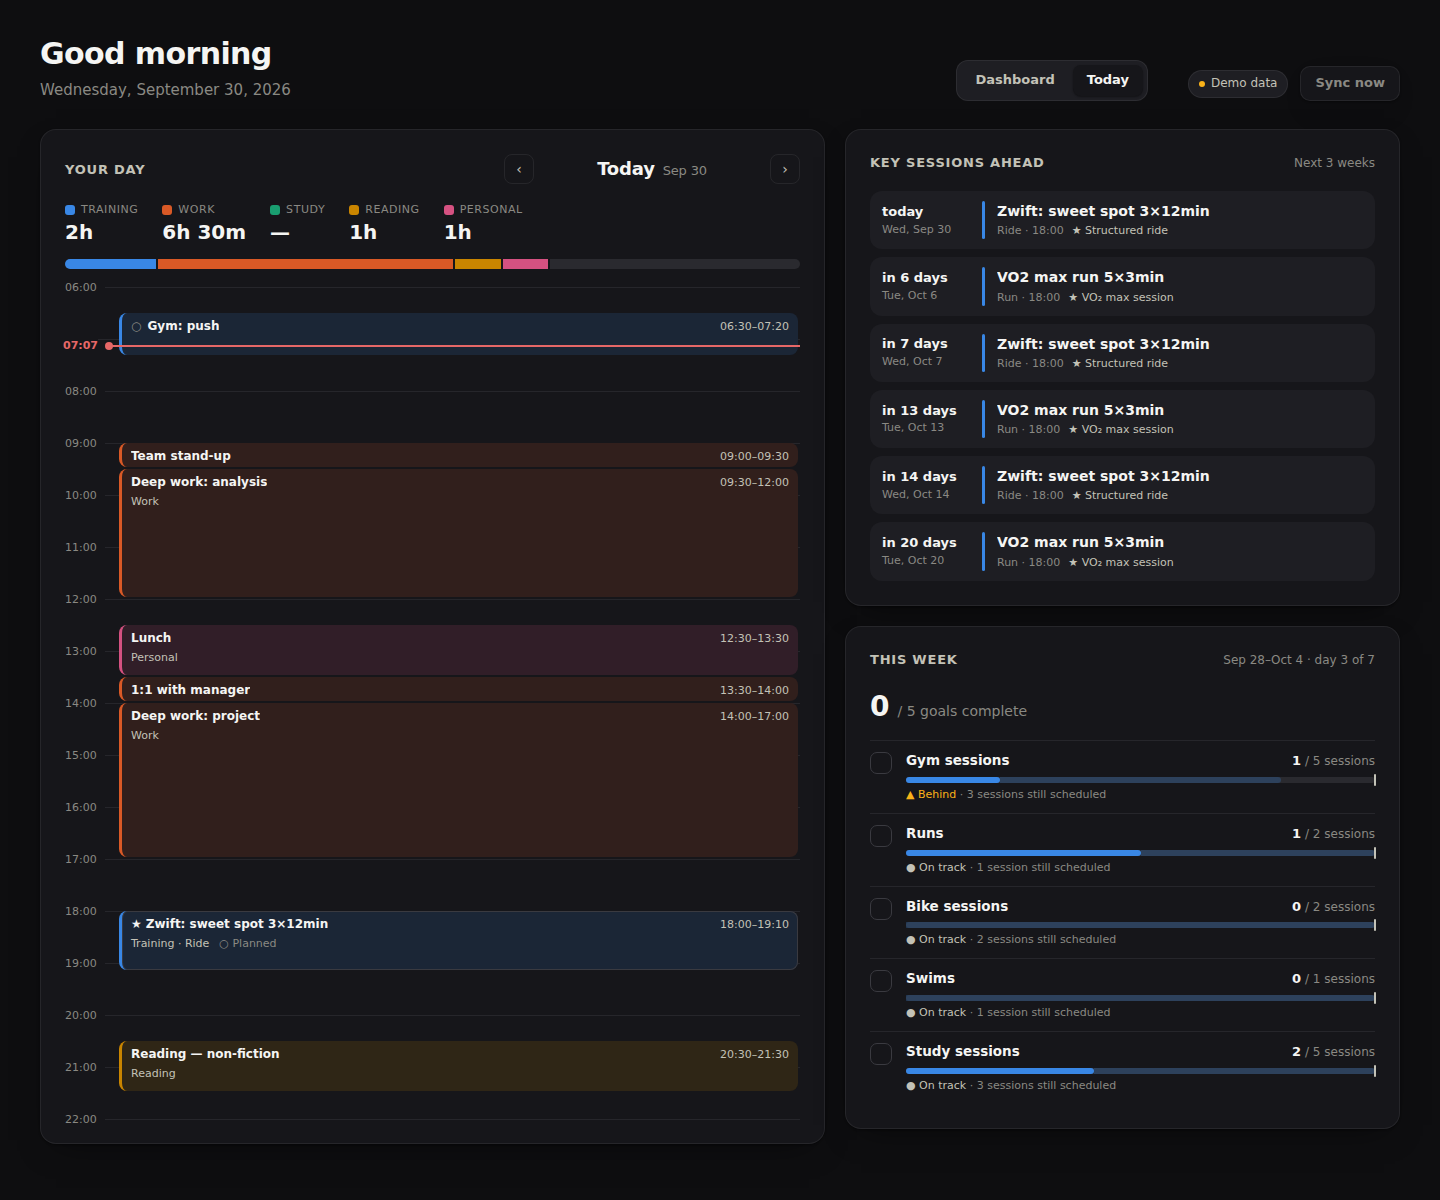
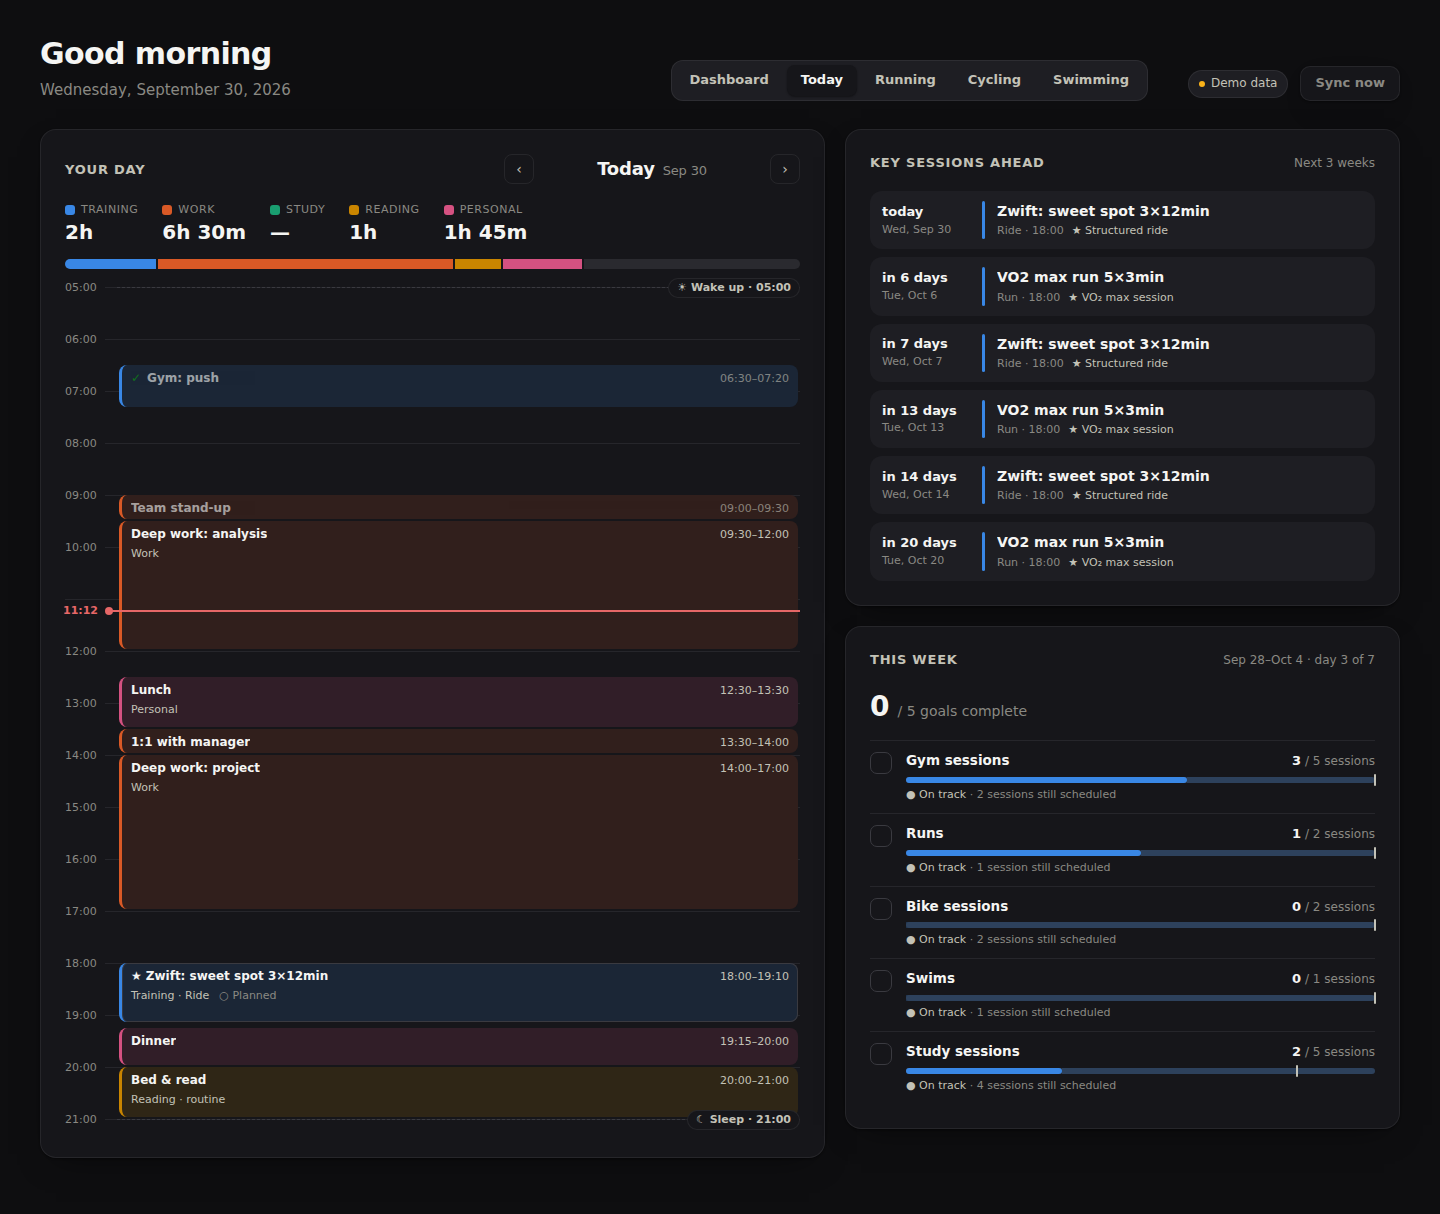
Fixed daily routine on Today; Upcoming shows key sessions and calls
- routine.json: wake 05:00, dinner 19:15, bed & read 20:00, sleep 21:00.
  Day plan shows calendar events only within 05:00-21:00, adds the routine
  blocks (counted in the hours per area) and wake/sleep markers.
- /api/upcoming adds highlights: key training sessions + events with
  "call" in the title (CALL_KEYWORDS); the Upcoming card shows those.
  The training calendar still shows all planned training.
- Demo: today's already-finished sessions are recorded; calendar fits the
  routine and includes a few calls.

Claude-Session: https://claude.ai/code/session_01FaeG5KvLLdAzK14UMshkEA

diff --git a/frontend/src/components/UpcomingCard.tsx b/frontend/src/components/UpcomingCard.tsx
@@ -1,4 +1,4 @@
-import { clock, duration, parseDay, relativeDay, SPORT_LABEL } from "../format";
+import { CATEGORY_LABEL, clock, duration, parseDay, relativeDay, SPORT_LABEL } from "../format";
 import type { CalEvent } from "../types";
 
 export function UpcomingCard({ events, configured }: { events: CalEvent[]; configured: boolean }) {
@@ -13,14 +13,14 @@ export function UpcomingCard({ events, configured }: { events: CalEvent[]; confi
     <section className="card span-4 upcoming">
       <div className="card-head">
         <h2>Upcoming</h2>
-        <span className="sub">Next 14 days · Google Calendar</span>
+        <span className="sub">Key sessions &amp; calls · next 14 days</span>
       </div>
       {!configured ? (
         <div className="empty">
           Add your calendar's secret iCal address as <code>GCAL_ICS_URLS</code> in <code>backend/.env</code>.
         </div>
       ) : events.length === 0 ? (
-        <div className="empty">Nothing planned — enjoy the rest.</div>
+        <div className="empty">No key sessions or calls in the next 14 days.</div>
       ) : (
         <div className="up-list">
         {[...groups.entries()].map(([day, items]) => (
@@ -35,14 +35,22 @@ export function UpcomingCard({ events, configured }: { events: CalEvent[]; confi
               const mins = e.all_day ? null : (new Date(e.end).getTime() - new Date(e.start).getTime()) / 1000;
               return (
                 <div className={`session ${e.id === nextId ? "next" : ""}`} key={e.id}>
-                  <div className="bar" style={{ background: `var(--sport-${e.sport ?? "other"})` }} />
+                  <div
+                    className="bar"
+                    style={{ background: e.category === "training" ? `var(--sport-${e.sport ?? "other"})` : `var(--cat-${e.category})` }}
+                  />
                   <div style={{ minWidth: 0 }}>
                     <div className="row1">
                       <span className="title">{e.title}</span>
                       <span className="time tnum">{e.all_day ? "All day" : `${clock(e.start)}–${clock(e.end)}`}</span>
                     </div>
                     <div className="tag">
-                      {SPORT_LABEL[e.sport ?? "other"]}
+                      {e.is_call && !e.key_reason ? (
+                        <span className="up-kind">☎ Call</span>
+                      ) : e.key_reason ? (
+                        <span className="up-kind">★ {e.key_reason}</span>
+                      ) : null}
+                      {e.category === "training" && e.sport && e.sport !== "other" ? SPORT_LABEL[e.sport] : CATEGORY_LABEL[e.category]}
                       {mins ? ` · ${duration(mins)}` : ""}
                       {e.location ? ` · ${e.location}` : ""}
                     </div>

diff --git a/frontend/src/components/DayTimeline.tsx b/frontend/src/components/DayTimeline.tsx
@@ -40,7 +40,12 @@ function eventBlock(e: CalEvent, nowIso: string): Omit<Block, "lane" | "lanes"> 
     start: e.start,
     end: e.end,
     category: e.category,
-    sub: e.category === "training" ? `Training · ${SPORT_LABEL[e.sport ?? "other"]}` : CATEGORY_LABEL[e.category],
+    sub:
+      e.source === "routine"
+        ? `${CATEGORY_LABEL[e.category]} · routine`
+        : e.category === "training"
+          ? `Training · ${SPORT_LABEL[e.sport ?? "other"]}`
+          : CATEGORY_LABEL[e.category],
     status,
     key: e.key_reason,
     desc: e.description,
@@ -113,8 +118,12 @@ export function DayTimeline({
     ...(plan?.unplanned_activities ?? []).map(activityBlock),
   ]);
 
-  const startH = Math.min(6, ...blocks.map((b) => Math.floor(minutes(b.start) / 60)));
-  const endH = Math.max(22, ...blocks.map((b) => (b.end.slice(0, 10) > day ? 24 : Math.ceil(minutes(b.end) / 60))));
+  // Your day window (routine.json, default 05:00–21:00); widened only if something falls outside it.
+  const hm = (t: string) => Number(t.slice(0, 2)) * 60 + Number(t.slice(3, 5));
+  const winStart = Math.floor(hm(plan?.window?.start ?? "05:00") / 60);
+  const winEnd = Math.ceil(hm(plan?.window?.end ?? "21:00") / 60);
+  const startH = Math.min(winStart, ...blocks.map((b) => Math.floor(minutes(b.start) / 60)));
+  const endH = Math.max(winEnd, ...blocks.map((b) => (b.end.slice(0, 10) > day ? 24 : Math.ceil(minutes(b.end) / 60))));
   const y = (iso: string) => ((iso.slice(0, 10) > day ? 24 * 60 : minutes(iso)) - startH * 60) * (HOUR_PX / 60);
   const hours = Array.from({ length: endH - startH + 1 }, (_, i) => startH + i);
 
@@ -182,7 +191,7 @@ export function DayTimeline({
         </div>
       )}
 
-      <div className="timeline" style={{ height: (endH - startH) * HOUR_PX }}>
+      <div className="timeline" style={{ height: (endH - startH) * HOUR_PX, marginBottom: 14 }}>
         {hours.map((h) => {
           const top = (h - startH) * HOUR_PX;
           // Hide the hour label when the "now" marker would sit on top of it.
@@ -236,6 +245,13 @@ export function DayTimeline({
             );
           })}
         </div>
+        {(plan?.markers ?? []).map((m) => (
+          <div key={m.title} className="marker" style={{ top: y(`${day}T${m.at}`) }}>
+            <span>
+              <span aria-hidden>{/wake/i.test(m.title) ? "☀" : /sleep/i.test(m.title) ? "☾" : "•"}</span> {m.title} · {m.at}
+            </span>
+          </div>
+        ))}
         {day === todayIso && minutes(nowIso) >= startH * 60 && minutes(nowIso) <= endH * 60 && (
           <div className="now" style={{ top: y(nowIso) }}>
             <span className="tnum">{clock(nowIso)}</span>

diff --git a/frontend/src/App.tsx b/frontend/src/App.tsx
@@ -36,7 +36,10 @@ export function App({ onSignOut }: { onSignOut?: (() => void) | null }) {
   const [status, setStatus] = useState<Status | null>(null);
   const [nights, setNights] = useState<SleepNight[]>([]);
   const [readiness, setReadiness] = useState<Readiness | null>(null);
-  const [upcoming, setUpcoming] = useState<{ configured: boolean; events: CalEvent[] }>({ configured: true, events: [] });
+  const [upcoming, setUpcoming] = useState<{ configured: boolean; events: CalEvent[]; highlights?: CalEvent[] }>({
+    configured: true,
+    events: [],
+  });
   const [refreshKey, setRefreshKey] = useState(0);
   const [error, setError] = useState<string | null>(null);
 
@@ -137,7 +140,7 @@ export function App({ onSignOut }: { onSignOut?: (() => void) | null }) {
           <SleepCard nights={nights} />
           <ReadinessCard data={readiness} />
           <TrainingCalendar planned={upcoming.events} refreshKey={refreshKey} />
-          <UpcomingCard events={upcoming.events} configured={upcoming.configured} />
+          <UpcomingCard events={upcoming.highlights ?? []} configured={upcoming.configured} />
         </main>
       )}
     </div>

diff --git a/frontend/src/api.ts b/frontend/src/api.ts
@@ -51,7 +51,8 @@ export const api = {
   sleep: (days: number) => get<{ nights: SleepNight[] }>(`/api/sleep?days=${days}`).then((r) => r.nights),
   activities: (start: string, end: string) =>
     get<{ activities: Activity[] }>(`/api/activities?start=${start}&end=${end}`).then((r) => r.activities),
-  upcoming: (days: number) => get<{ configured: boolean; events: CalEvent[] }>(`/api/upcoming?days=${days}`),
+  upcoming: (days: number) =>
+    get<{ configured: boolean; events: CalEvent[]; highlights?: CalEvent[] }>(`/api/upcoming?days=${days}`),
   readiness: () => get<Readiness>("/api/readiness"),
   sport: (name: SportKey, days: number) => get<SportData>(`/api/sport/${name}?days=${days}`),
   day: (date: string) => get<DayPlan>(`/api/day?date=${date}`),

diff --git a/frontend/src/styles.css b/frontend/src/styles.css
@@ -499,3 +499,9 @@ table.sessions tbody tr:hover { background: var(--surface-2); }
 }
 .metric-toggles button:hover { background: var(--surface-2); }
 .metric-toggles button.on { background: var(--ink); color: var(--surface); border-color: var(--ink); }
+
+/* routine markers (wake up / sleep) on the day timeline */
+.marker { position: absolute; left: 52px; right: 0; border-top: 1.5px dashed var(--baseline); z-index: 2; pointer-events: none; }
+.marker > span { position: absolute; right: 0; top: -10px; white-space: nowrap; font-size: 11px; font-weight: 600; color: var(--ink-2);
+  background: var(--surface); padding: 1px 8px; border: 1px solid var(--border); border-radius: 999px; }
+.up-kind { color: var(--ink-2); font-weight: 600; margin-right: 6px; }

diff --git a/frontend/src/types.ts b/frontend/src/types.ts
@@ -71,10 +71,15 @@ export interface CalEvent {
   description: string | null;
   location: string | null;
   completed_by?: { id: number; name: string; start: string; duration_s: number | null; distance_m: number | null } | null;
+  /** "routine" for your fixed daily blocks (routine.json) */
+  source?: string;
+  is_call?: boolean;
 }
 
 export interface DayPlan {
   date: string;
+  window?: { start: string; end: string };
+  markers?: { title: string; at: string }[];
   configured: boolean;
   events: CalEvent[];
   hours: Record<Category, number>;

diff --git a/backend/app/demo.py b/backend/app/demo.py
@@ -35,21 +35,22 @@ _WORK = [  # weekday (Mon-Fri) -> [(title, (h, m), minutes)]
     [("Team stand-up", (9, 0), 30), ("Deep work: project", (9, 30), 180), ("Work — planning meeting", (14, 0), 90)],
     [("Team stand-up", (9, 0), 30), ("Deep work: project", (9, 30), 150), ("Work — weekly review", (13, 30), 60)],
 ]
-_READING = {  # weekday -> [(title, (h, m), minutes)]
-    0: [("Reading — novel", (21, 30), 40)], 1: [("Reading — novel", (21, 30), 40)],
-    2: [("Reading — non-fiction", (20, 30), 60)], 3: [("Reading — novel", (22, 0), 30)],
-    4: [("Reading — novel", (21, 30), 45)], 5: [("Reading in the park", (15, 0), 90)],
-    6: [("Reading — non-fiction", (20, 0), 60)],
+# Reading and dinner come from the fixed routine (routine.json), not the calendar.
+_CALLS = {  # weekday -> [(title, (h, m), minutes, category)]
+    1: [("Client call", (11, 0), 30, "work")],
+    3: [("Call with coach", (12, 30), 30, "training")],
+    6: [("Family call", (16, 0), 30, "personal")],
 }
 _PERSONAL = {
     0: [("Lunch", (12, 30), 60)], 1: [("Lunch", (12, 30), 60)], 2: [("Lunch", (12, 30), 60)],
-    3: [("Lunch", (12, 30), 60)], 4: [("Lunch", (12, 30), 60), ("Dinner with friends", (19, 0), 150)],
+    3: [("Lunch", (12, 30), 60)], 4: [("Lunch", (12, 30), 60)],
     5: [("Groceries & errands", (12, 30), 90)], 6: [("Family lunch", (12, 30), 120)],
 }
 _STUDY = {  # weekday -> [(title, (h, m), minutes)]
-    0: [("Study — statistics module", (19, 30), 90)],
-    1: [("Lecture: research methods", (19, 30), 90)],
-    3: [("Study — statistics module", (19, 30), 120)],
+    0: [("Study — statistics module", (17, 15), 90)],
+    1: [("Lecture: research methods", (16, 30), 75)],
+    3: [("Study — statistics module", (16, 30), 75)],
+    4: [("Study — weekly review", (17, 15), 60)],
     5: [("Study — assignment 2", (10, 30), 120)],
     6: [("Revision — weekly notes", (15, 0), 60)],
 }
@@ -206,7 +207,10 @@ def seed(
 
         # Activities: follow the plan, skip the odd session, nothing yet for today.
         load_today = 0.0
-        for type_key, name, (hh, mm), minutes, _km, load in (_WEEK_PLAN[d.weekday()] if i > 0 else []):
+        now = datetime.now()
+        for type_key, name, (hh, mm), minutes, _km, load in _WEEK_PLAN[d.weekday()]:
+            if i == 0 and datetime(d.year, d.month, d.day, hh, mm) + timedelta(minutes=minutes) > now:
+                continue  # today: only sessions that are already over
             if rng.random() < 0.1:
                 continue
             minutes = minutes * rng.uniform(0.9, 1.1)
@@ -281,7 +285,7 @@ def calendar_events(start: date, end: date) -> list[dict[str, Any]]:
         if wd < 5:
             out += [ev(d, t, hm, m, "work") for t, hm, m in _WORK[wd]]
         out += [ev(d, t, hm, m, "study") for t, hm, m in _STUDY.get(wd, [])]
-        out += [ev(d, t, hm, m, "reading") for t, hm, m in _READING.get(wd, [])]
+        out += [ev(d, t, hm, m, c) for t, hm, m, c in _CALLS.get(wd, [])]
         out += [ev(d, t, hm, m, "personal") for t, hm, m in _PERSONAL.get(wd, [])]
         d += timedelta(days=1)
 

diff --git a/backend/app/planner.py b/backend/app/planner.py
@@ -53,9 +53,40 @@ def match_activities(events: list[dict], activities: list[dict]) -> None:
             }
 
 
-def day_plan(day: date, events: list[dict], activities: list[dict]) -> dict[str, Any]:
+DEFAULT_ROUTINE: dict[str, Any] = {"day_start": "05:00", "day_end": "21:00", "markers": [], "blocks": []}
+
+
+def load_routine(path: Path) -> dict[str, Any]:
+    if not path.exists():
+        return DEFAULT_ROUTINE
+    return {**DEFAULT_ROUTINE, **json.loads(path.read_text())}
+
+
+def routine_events(day: date, routine: dict[str, Any]) -> list[dict[str, Any]]:
+    """The fixed daily blocks (dinner, reading…) as calendar-like events for `day`."""
+    d = day.isoformat()
+    return [
+        {"id": f"routine-{d}-{i}", "title": b["title"], "start": f"{d}T{b['start']}", "end": f"{d}T{b['end']}",
+         "all_day": False, "category": b.get("category", "personal"), "sport": None, "key_reason": None,
+         "description": None, "location": None, "source": "routine"}
+        for i, b in enumerate(routine.get("blocks", []))
+    ]
+
+
+def day_plan(
+    day: date, events: list[dict], activities: list[dict], routine: dict[str, Any] | None = None
+) -> dict[str, Any]:
+    routine = routine or DEFAULT_ROUTINE
     day_iso = day.isoformat()
-    todays = [e for e in events if e["start"][:10] == day_iso or (e["all_day"] and e["start"] <= day_iso < e["end"])]
+    win_start, win_end = f"{day_iso}T{routine['day_start']}", f"{day_iso}T{routine['day_end']}"
+    todays = [
+        e for e in events
+        # timed events that overlap your day window, plus all-day events
+        if (not e["all_day"] and e["start"][:10] <= day_iso <= e["end"][:10]
+            and e["start"] < win_end and e["end"] > win_start)
+        or (e["all_day"] and e["start"] <= day_iso < e["end"])
+    ]
+    todays = sorted(todays + routine_events(day, routine), key=lambda e: e["start"])
     acts = [a for a in activities if a["date"] == day_iso]
     match_activities(todays, acts)
     totals = {c: 0.0 for c in CATEGORIES}
@@ -64,6 +95,8 @@ def day_plan(day: date, events: list[dict], activities: list[dict]) -> dict[str,
     matched = {e["completed_by"]["id"] for e in todays if e.get("completed_by")}
     return {
         "date": day_iso,
+        "window": {"start": routine["day_start"], "end": routine["day_end"]},
+        "markers": [{"title": m["title"], "at": m["at"]} for m in routine.get("markers", [])],
         "events": todays,
         "hours": {k: round(v, 2) for k, v in totals.items()},
         # Garmin activities that weren't on the calendar at all

diff --git a/backend/tests/test_planner.py b/backend/tests/test_planner.py
@@ -69,3 +69,28 @@ def test_activity_count_counts_scheduled_sessions_as_planned():
               ev("Ride", "2026-10-03T08:00", "2026-10-03T10:00", sport="ride")]
     r = evaluate({"metric": "activity_count", "sport": "run", "target": 2}, datetime(2026, 9, 30, 12), runs, events)
     assert r["progress"] == 1 and r["planned"] == 1 and r["status"] == "on_track"
+
+
+def test_day_window_and_routine():
+    routine = {"day_start": "05:00", "day_end": "21:00",
+               "markers": [{"title": "Wake up", "at": "05:00"}, {"title": "Sleep", "at": "21:00"}],
+               "blocks": [{"title": "Dinner", "start": "19:15", "end": "20:00", "category": "personal"},
+                          {"title": "Bed & read", "start": "20:00", "end": "21:00", "category": "reading"}]}
+    events = [ev("Early", "2026-09-28T04:00", "2026-09-28T04:45", category="work", sport=None),
+              ev("Gym", "2026-09-28T06:30", "2026-09-28T07:20", sport="strength"),
+              ev("Late show", "2026-09-28T22:00", "2026-09-28T23:30", category="other", sport=None),
+              ev("Overlaps start", "2026-09-28T04:30", "2026-09-28T05:30", category="work", sport=None)]
+    plan = planner.day_plan(date(2026, 9, 28), events, [], routine)
+    titles = [e["title"] for e in plan["events"]]
+    assert titles == ["Overlaps start", "Gym", "Dinner", "Bed & read"]
+    assert plan["window"] == {"start": "05:00", "end": "21:00"}
+    assert [m["title"] for m in plan["markers"]] == ["Wake up", "Sleep"]
+    assert plan["hours"]["reading"] == 1.0 and plan["hours"]["personal"] == 0.75
+    assert next(e for e in plan["events"] if e["title"] == "Dinner")["source"] == "routine"
+
+
+def test_routine_file_loads(tmp_path):
+    assert planner.load_routine(tmp_path / "missing.json")["day_start"] == "05:00"
+    from app.config import BACKEND_DIR
+    r = planner.load_routine(BACKEND_DIR / "routine.json")
+    assert r["day_end"] == "21:00" and {b["title"] for b in r["blocks"]} == {"Dinner", "Bed & read"}

diff --git a/backend/app/main.py b/backend/app/main.py
@@ -220,22 +220,26 @@ def create_app(cfg: Settings = default_settings, store: Store | None = None) -> 
 
     @app.get("/api/upcoming")
     def upcoming(days: int = Query(14, ge=1, le=60)) -> dict[str, Any]:
-        """Planned training sessions from now on."""
+        """Planned training (for the calendar) and highlights: key sessions + calls."""
         if not (cfg.demo_mode or calendar_sources(cfg)):
-            return {"configured": False, "events": []}
+            return {"configured": False, "events": [], "highlights": []}
         today = date.today()
         now_iso = datetime.now().isoformat(timespec="minutes")
-        evs = [
-            e for e in events_between(today, today + timedelta(days=days))
-            if e["category"] == "training" and (e["all_day"] or e["end"] >= now_iso)
-        ]
-        return {"configured": True, "events": evs}
+        ahead = [e for e in events_between(today, today + timedelta(days=days)) if e["all_day"] or e["end"] >= now_iso]
+        for e in ahead:
+            e["is_call"] = calendar_feed.is_call(e["title"], cfg.call_keywords)
+        return {
+            "configured": True,
+            "events": [e for e in ahead if e["category"] == "training"],
+            "highlights": [e for e in ahead if (e["category"] == "training" and e.get("key_reason")) or e["is_call"]],
+        }
 
     @app.get("/api/day")
     def day_view(day: str | None = Query(None, alias="date")) -> dict[str, Any]:
         d = _day(day)
         evs = events_between(d, d + timedelta(days=1))
-        plan = planner.day_plan(d, evs, activities_between(d.isoformat(), d.isoformat()))
+        plan = planner.day_plan(d, evs, activities_between(d.isoformat(), d.isoformat()),
+                                planner.load_routine(cfg.routine_path))
         plan["configured"] = cfg.demo_mode or bool(calendar_sources(cfg))
         return plan
 

diff --git a/backend/tests/test_calendar.py b/backend/tests/test_calendar.py
@@ -1,6 +1,6 @@
 from datetime import datetime
 
-from app.calendar_feed import classify, key_reason, parse_events
+from app.calendar_feed import classify, is_call, key_reason, parse_events
 
 ICS = """BEGIN:VCALENDAR
 VERSION:2.0
@@ -82,3 +82,8 @@ def test_key_sessions_are_quality_run_and_bike_work():
     assert key("Statistics exam", "study") is None
     assert key("★ Parkrun") == "starred"
     assert key_reason("Hill session", "training", "run", ["hill"]) == "“hill” in title"
+
+
+def test_is_call():
+    assert is_call("Client call", ["call"]) and is_call("Calls with team", ["call"])
+    assert not is_call("Recall review", ["call"]) and not is_call("Callisthenics", ["call"])

diff --git a/backend/app/config.py b/backend/app/config.py
@@ -43,6 +43,11 @@ class Settings:
     key_session_keywords: list[str] = field(
         default_factory=lambda: _list("KEY_SESSION_KEYWORDS")
     )
+    routine_path: Path = field(
+        default_factory=lambda: BACKEND_DIR / os.getenv("ROUTINE_PATH", "routine.json")
+    )
+    # Title words that make an event a "call" (shown under Upcoming with key sessions).
+    call_keywords: list[str] = field(default_factory=lambda: _list("CALL_KEYWORDS") or ["call"])
     goals_path: Path = field(
         default_factory=lambda: BACKEND_DIR / os.getenv("GOALS_PATH", "goals.json")
     )
